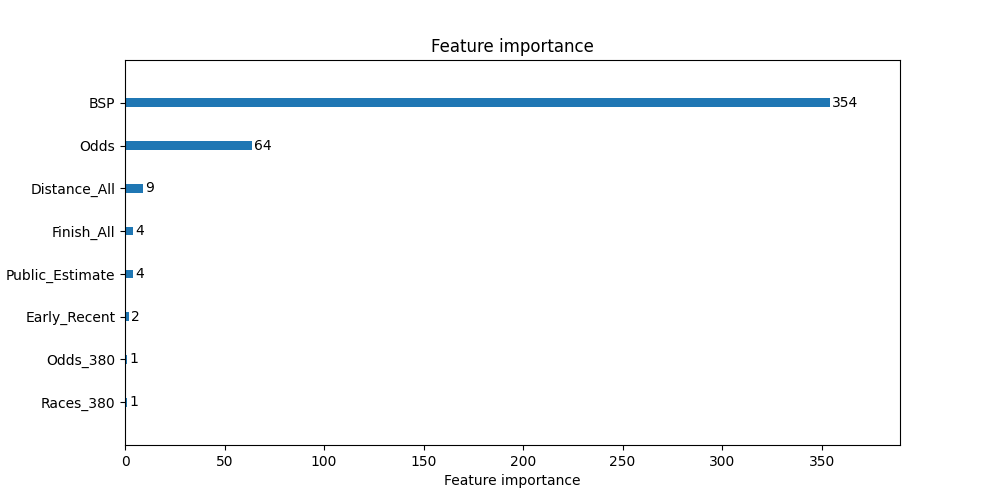
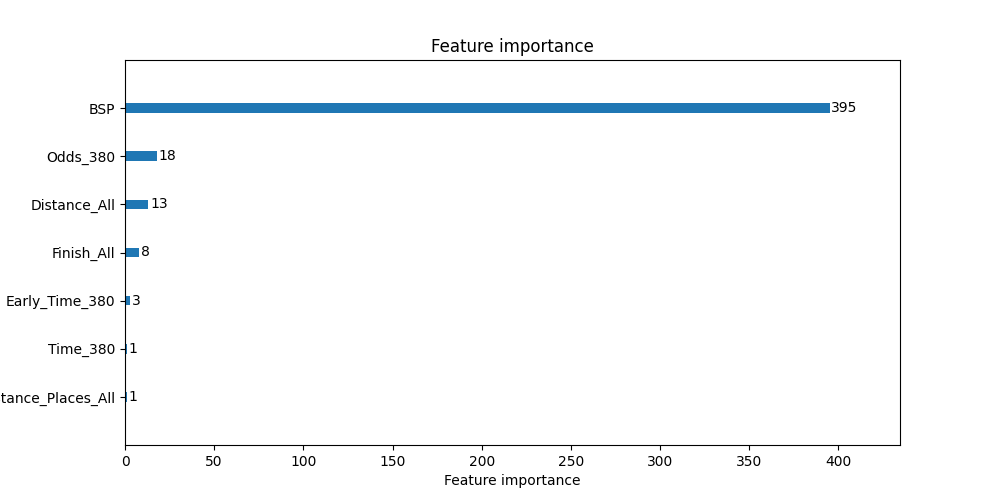
include dropped featuers

diff --git a/train.py b/train.py
@@ -9,9 +9,16 @@ df = pd.read_csv(
     parse_dates=[],
     index_col=[],
 )
-TARGET = 'Winner'
-y=df[TARGET]
-X = df.drop([TARGET, 'Finished'], axis=1)
+TARGET = "Winner"
+DROPPED_FEATURES = [
+    "Odds",
+    "Odds_Recent",
+    "Races_380",
+    "Public_Estimate",
+    "Early_Recent",
+]
+y = df[TARGET]
+X = df.drop([TARGET, "Finished", *DROPPED_FEATURES], axis=1)
 d = lgb.Dataset(X, y, silent=True)
 
 NUM_BOOST_ROUND = 439
@@ -34,7 +41,7 @@ params = {
 model = lgb.train(params, d, num_boost_round=NUM_BOOST_ROUND)
 
 Path("figures").mkdir(exist_ok=True)
-lgb.plot_importance(model, grid=False, figsize=(10,5))
+lgb.plot_importance(model, grid=False, figsize=(10, 5))
 plt.savefig("figures/feature_importange.png")
 
 Path("models").mkdir(exist_ok=True)

diff --git a/tune.py b/tune.py
@@ -329,6 +329,9 @@ print("  Params: ")
 for key, value in best_params.items():
     print(f"    {key}: {value}")
 
+print(dropped_features)
+
+
 lgb.plot_importance(model, grid=False, max_num_features=20, importance_type="gain")
 plt.show()
 
